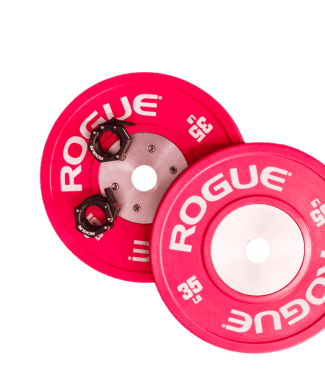
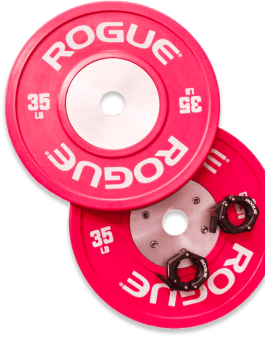
Поработал с декором

diff --git a/source/sass/blocks/price.scss b/source/sass/blocks/price.scss
@@ -106,11 +106,12 @@
           "../img/rogue@2x.png" 2x
         );
       background-repeat: no-repeat;
-      width: 339px;
-      height: 354px;
+      width: 275px;
+      height: 326px;
       position: absolute;
-      bottom: -10px;
+      bottom: -45px;
       right: -208px;
+      transform: rotate(150deg);
     }
   }
 
@@ -119,8 +120,15 @@
     width: 1159px;
 
     &::after {
-      right: -168px;
-      bottom: -60px;
+      width: 321px;
+      height: 384px;
+      right: -200px;
+      bottom: -80px;
+      background-image:
+        image-set(
+          "../img/rogue-desctop@1x.png" 1x,
+          "../img/rogue-desctop@2x.png" 2x
+        );
     }
   }
 }

diff --git a/source/js/main.js b/source/js/main.js
@@ -7,6 +7,10 @@ import './video';
 window.addEventListener('load', () => {
   const tabs = document.querySelector('.price__tabs');
   tabs.addEventListener('click', (e) => {
+
+    if(!e.target.closest('.price__tab')) {
+      return;
+    }
     const oldTab = document.querySelector('.price__tab--active');
     oldTab.classList.remove('price__tab--active');
     e.target.classList.add('price__tab--active');
